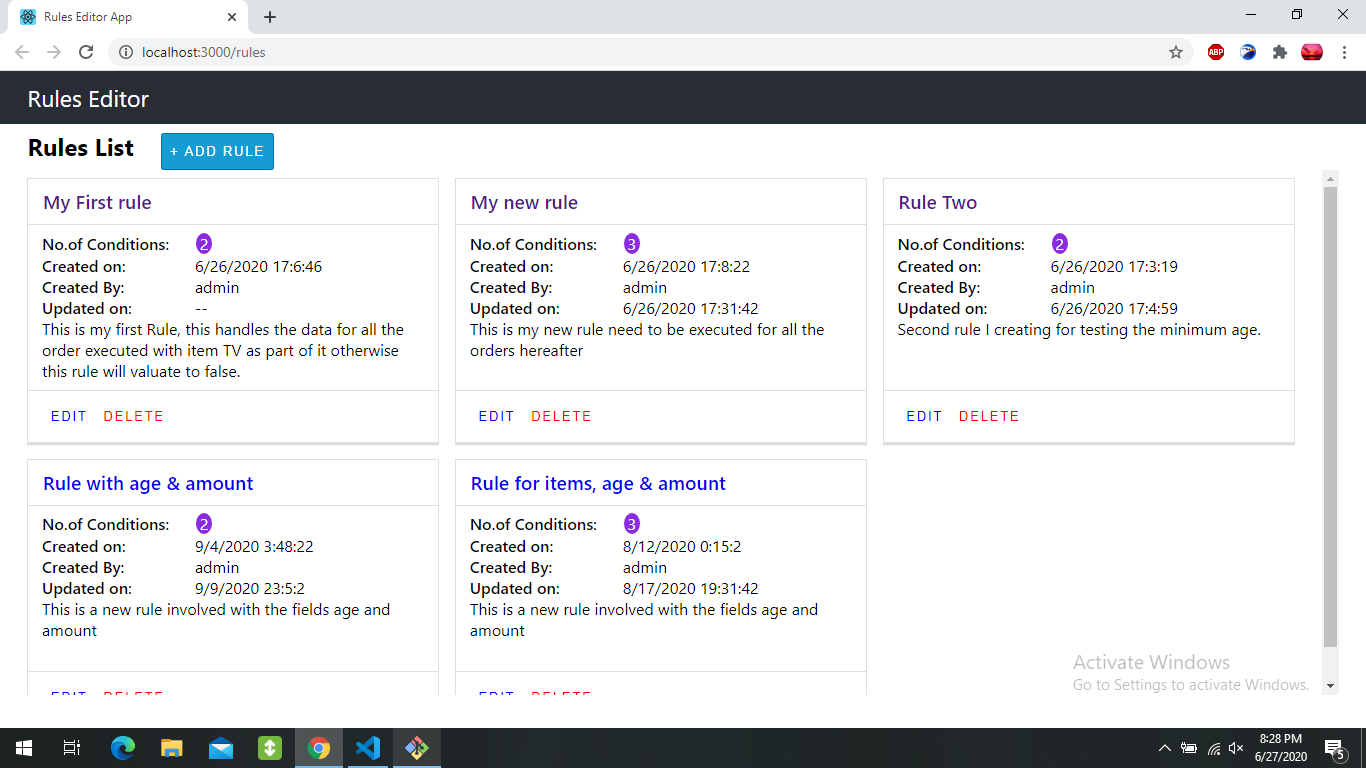
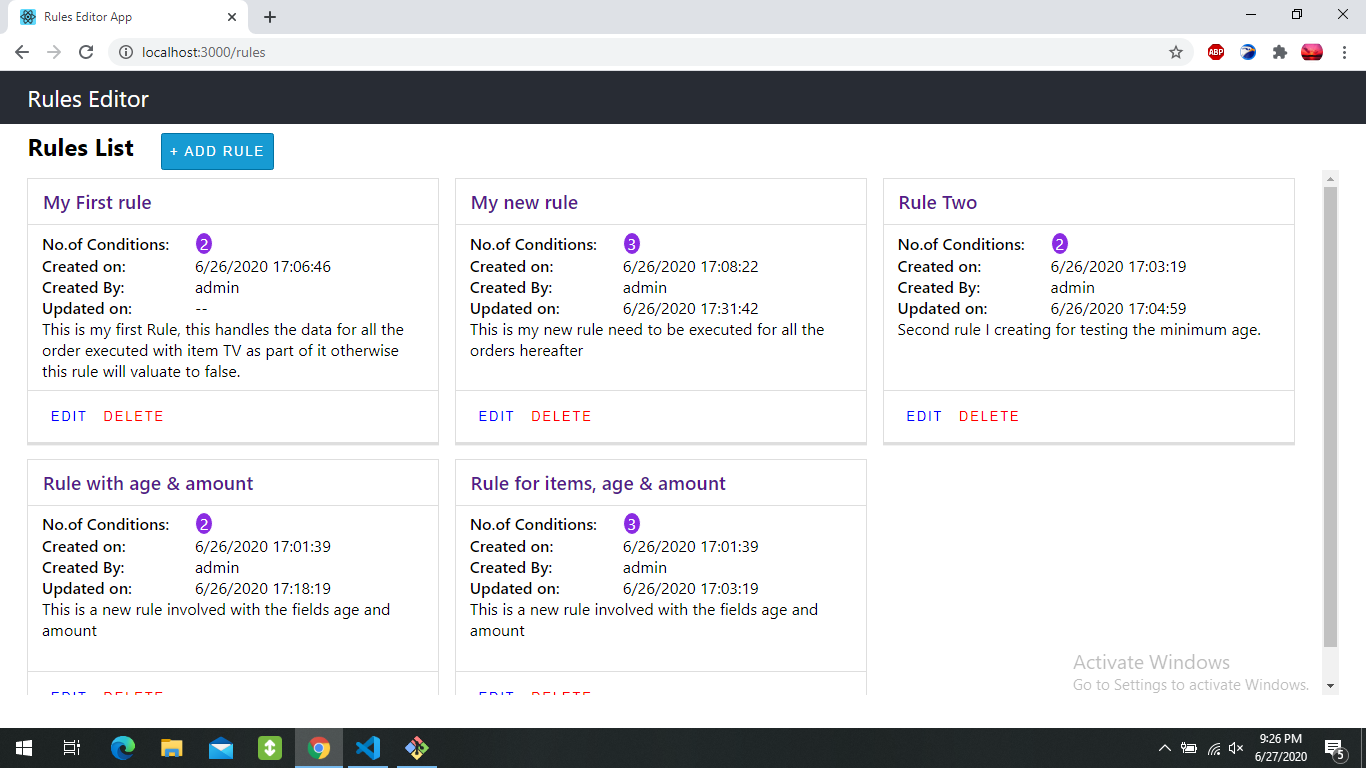
1) Removed unused npm packages. 2) Updated Readme file with application details. 3) getShortDate method is updated with proper time details.

diff --git a/src/components/Rules-list/Rules-list.js b/src/components/Rules-list/Rules-list.js
@@ -41,7 +41,13 @@ function RulesList(stateProps) {
     const getShortDate = (timeInSecs) => {
         if (timeInSecs) {
             let date = new Date(timeInSecs);
-            return `${date.getMonth() + 1}/${date.getDate()}/${date.getFullYear()} ${date.getHours()}:${date.getMinutes()}:${date.getSeconds()}`;
+            let hours = date.getHours();
+            hours = (hours < 10) ? `0${hours}`: hours;
+            let minutes = date.getMinutes();
+            minutes = (minutes < 10) ? `0${minutes}`: minutes;
+            let seconds = date.getSeconds();
+            seconds = (seconds < 10) ? `0${seconds}`: seconds;
+            return `${date.getMonth() + 1}/${date.getDate()}/${date.getFullYear()} ${hours}:${minutes}:${seconds}`;
         } else {
             return '--';
         }

diff --git a/README.md b/README.md
@@ -1,10 +1,34 @@
 This project was bootstrapped with [Create React App](https://github.com/facebook/create-react-app).
 
-## Available Scripts
+### Application details
+This project deals with the listing of rules in the format of cards and click on each card takes the user to the respective details of the rule.
+The fields, items and operations are used from the default json data available in the models folder.
+On details screen, click of save button validates the provided user values.
 
-In the project directory, you can run:
+Three Routes
+1) rules --- Listing all the rules
+2) rule/new --- For creating the new rule
+3) rule/:id --- For showing the details of rule
 
-### `npm start`
+### Package Details
+1) React   --- For building the UI
+
+2) React-router-dom --- For routing between list and details screen
+
+3) Axios --- For API calls
+
+4) SCSS --- For styling the application
+
+### APIs
+
+Mock APIs is hosted on "https://my-json-server.typicode.com/tramachandran/rule-editor"
+and the sample data is available in db.json file....
+
+###  To run the Application
+
+Run `npm install` to install all required node packages required to run the application
+then
+Run `npm start` to start the application locally....
 
 Runs the app in the development mode.<br />
 Open [http://localhost:3000](http://localhost:3000) to view it in the browser.
@@ -12,57 +36,8 @@ Open [http://localhost:3000](http://localhost:3000) to view it in the browser.
 The page will reload if you make edits.<br />
 You will also see any lint errors in the console.
 
-### `npm test`
+### Screenshots
+Application's desktop screen view and
+mobile screen view is available inside screenshots folder
 
-Launches the test runner in the interactive watch mode.<br />
-See the section about [running tests](https://facebook.github.io/create-react-app/docs/running-tests) for more information.
 
-### `npm run build`
-
-Builds the app for production to the `build` folder.<br />
-It correctly bundles React in production mode and optimizes the build for the best performance.
-
-The build is minified and the filenames include the hashes.<br />
-Your app is ready to be deployed!
-
-See the section about [deployment](https://facebook.github.io/create-react-app/docs/deployment) for more information.
-
-### `npm run eject`
-
-**Note: this is a one-way operation. Once you `eject`, you can’t go back!**
-
-If you aren’t satisfied with the build tool and configuration choices, you can `eject` at any time. This command will remove the single build dependency from your project.
-
-Instead, it will copy all the configuration files and the transitive dependencies (webpack, Babel, ESLint, etc) right into your project so you have full control over them. All of the commands except `eject` will still work, but they will point to the copied scripts so you can tweak them. At this point you’re on your own.
-
-You don’t have to ever use `eject`. The curated feature set is suitable for small and middle deployments, and you shouldn’t feel obligated to use this feature. However we understand that this tool wouldn’t be useful if you couldn’t customize it when you are ready for it.
-
-## Learn More
-
-You can learn more in the [Create React App documentation](https://facebook.github.io/create-react-app/docs/getting-started).
-
-To learn React, check out the [React documentation](https://reactjs.org/).
-
-### Code Splitting
-
-This section has moved here: https://facebook.github.io/create-react-app/docs/code-splitting
-
-### Analyzing the Bundle Size
-
-This section has moved here: https://facebook.github.io/create-react-app/docs/analyzing-the-bundle-size
-
-### Making a Progressive Web App
-
-This section has moved here: https://facebook.github.io/create-react-app/docs/making-a-progressive-web-app
-
-### Advanced Configuration
-
-This section has moved here: https://facebook.github.io/create-react-app/docs/advanced-configuration
-
-### Deployment
-
-This section has moved here: https://facebook.github.io/create-react-app/docs/deployment
-
-### `npm run build` fails to minify
-
-This section has moved here: https://facebook.github.io/create-react-app/docs/troubleshooting#npm-run-build-fails-to-minify
